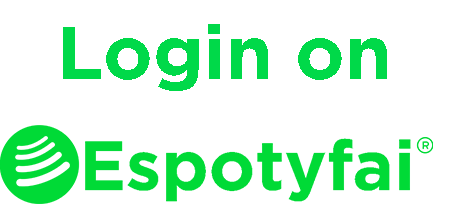
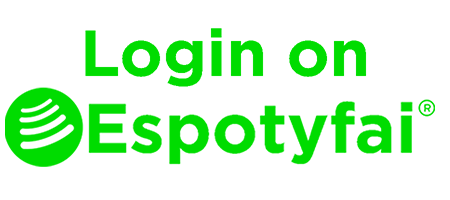
Initial, Register i Login views retocats + buttons

diff --git a/src/Presentation/View/InitialView.java b/src/Presentation/View/InitialView.java
@@ -6,6 +6,8 @@ import Presentation.Controller.InitialViewController;
 import javax.swing.*;
 import java.awt.*;
 
+import static javax.swing.BorderFactory.createEmptyBorder;
+
 public class InitialView extends JPanel {
 
     private JButton jLogin;
@@ -26,8 +28,6 @@ public class InitialView extends JPanel {
 
         JPanel exterior = new JPanel();
 
-        exterior.setBackground(Color.black);
-
         buttonsZone();
         logoZone();
 
@@ -38,15 +38,16 @@ public class InitialView extends JPanel {
         setBackground(Color.BLACK);
 
         add(exterior);
-
     }
 
 
     public void logoZone(){
         logo = new JPanel();
 
+        logo.setBackground(Color.black);
         Icon logoLbl = new ImageIcon(String.valueOf(AssetsFiles.LOGO_LABEL));
         JLabel jLogo = new JLabel(logoLbl);
+        logo.setBorder(createEmptyBorder(150, 0, 0, 0));
 
         logo.add(jLogo);
     }
@@ -54,6 +55,8 @@ public class InitialView extends JPanel {
     public void buttonsZone(){
         buttons = new JPanel();
 
+        buttons.setBackground(Color.black);
+        buttons.setBorder(createEmptyBorder(200, 0, 0, 0));
         Icon registerBtn = new ImageIcon(String.valueOf(AssetsFiles.REGISTER_BUTTON_IMG));
         jRegister = new JButton(registerBtn);
         jRegister.setActionCommand(BTN_REGISTER);

diff --git a/src/Presentation/View/LoginView.java b/src/Presentation/View/LoginView.java
@@ -8,6 +8,8 @@ import javax.swing.*;
 import java.awt.*;
 import java.util.ArrayList;
 
+import static javax.swing.BorderFactory.createEmptyBorder;
+
 public class LoginView extends JPanel {
     private JButton jSubmitLogin;
 
@@ -23,18 +25,17 @@ public class LoginView extends JPanel {
 
     public void configureLoginView() {
 
-        jSubmitLogin = new JButton("Submit");
-        jSubmitBack = new JButton("Back");
-
         setLayout(new BorderLayout());
 
         // NORTH
         JPanel north = new JPanel(new FlowLayout(FlowLayout.CENTER));
         north.setBackground(Color.black);
+        north.setBorder(createEmptyBorder(100, 0, 0, 0));
         add(north, BorderLayout.NORTH);
 
         Icon loginImg = new ImageIcon(String.valueOf(AssetsFiles.LOGIN_LABEL));
         JLabel loginLabel = new JLabel(loginImg);
+        loginLabel.setLayout(new GridLayout(4, 1, 0, 50));
         north.add(loginLabel);
 
         // CENTER
@@ -70,6 +71,7 @@ public class LoginView extends JPanel {
 
         JPanel south = new JPanel();
         south.setBackground(Color.black);
+        south.setBorder(createEmptyBorder(0, 0, 100, 0));
 
         Icon backBtn = new ImageIcon(String.valueOf(AssetsFiles.BACK_BUTTON_IMG));
         jSubmitBack = new JButton(backBtn);

diff --git a/src/Presentation/AssetsFiles.java b/src/Presentation/AssetsFiles.java
@@ -3,6 +3,7 @@ package Presentation;
 public enum AssetsFiles {
 
     LOGO_LABEL("files/imgs/logo.png"),
+
     LOGIN_LABEL("files/imgs/loginLabel.png"),
 
     REGISTER_LABEL("files/imgs/registerLabel.png"),
@@ -13,7 +14,25 @@ public enum AssetsFiles {
 
     BACK_BUTTON_IMG("files/imgs/backButton.png"),
 
-    SONGLIST_BUTTON_IMG("files/imgs/songlistButton.png");
+    SONGLIST_BUTTON_IMG("files/imgs/songlistButton.png"),
+
+    ADDSONG_BUTTON_IMG("files/imgs/addsongButton.png"),
+
+    DELETESONG_BUTTON_IMG("files/imgs/deletesongButton.png"),
+
+    STADISTICS_BUTTON_IMG("files/imgs/stadisticsButton.png"),
+
+    MANAGELISTS_BUTTON_IMG("files/imgs/managelistsButton.png"),
+
+    ADD_BUTTON_IMG("files/imgs/addButton.png"),
+
+    DELETE_BUTTON_IMG("files/imgs/deleteButton.png"),
+
+    BACK_LITTLEBUTTON_IMG("files/imgs/backLittleButton.png"),
+
+    LOGOUT_LITTLEBUTTON_IMG("files/imgs/logoutLittleButton.png"),
+
+    DELETEACC_LITTLEBUTTON_IMG("files/imgs/deleteLittleButton.png");
 
     private final String files;
     AssetsFiles(String files) { this.files = files; }

diff --git a/src/Presentation/View/RegisterView.java b/src/Presentation/View/RegisterView.java
@@ -6,6 +6,8 @@ import Presentation.Controller.RegisterViewController;
 import javax.swing.*;
 import java.awt.*;
 
+import static javax.swing.BorderFactory.createEmptyBorder;
+
 public class RegisterView extends JPanel {
 
     // Action commands
@@ -43,6 +45,7 @@ public class RegisterView extends JPanel {
         // NORTH
         JPanel north = new JPanel(new FlowLayout(FlowLayout.CENTER));
         north.setBackground(Color.black);
+        north.setBorder(createEmptyBorder(50, 0, 0, 0));
         add(north, BorderLayout.NORTH);
 
         Icon signUpLbl = new ImageIcon(String.valueOf(AssetsFiles.REGISTER_LABEL));
@@ -107,6 +110,7 @@ public class RegisterView extends JPanel {
 
         JPanel south = new JPanel();
         south.setBackground(Color.black);
+        south.setBorder(createEmptyBorder(0, 0, 100, 0));
 
         Icon backBtn = new ImageIcon(String.valueOf(AssetsFiles.BACK_BUTTON_IMG));
         jbBack = new JButton(backBtn);

diff --git a/src/Presentation/Controller/LoginViewController.java b/src/Presentation/Controller/LoginViewController.java
@@ -35,7 +35,7 @@ public class LoginViewController implements ActionListener {
                 if(userManager.isEmpty(data)){
                     loginView.showPopUps("It's Empty!");
                 }else{
-                    if (userManager.Login(data)) {
+                    if (userManager.login(data)) {
                         //canviem vista al seguent
                         mainView.showMainMenuCard();
                     }else{

diff --git a/src/Business/UserManager.java b/src/Business/UserManager.java
@@ -30,7 +30,7 @@ public class UserManager {
 
     */
 
-    public boolean Login(ArrayList<String> data){
+    public boolean login(ArrayList<String> data){
         User user = new User(data.get(0),data.get(1));
         return userDao.login(user);
     }
